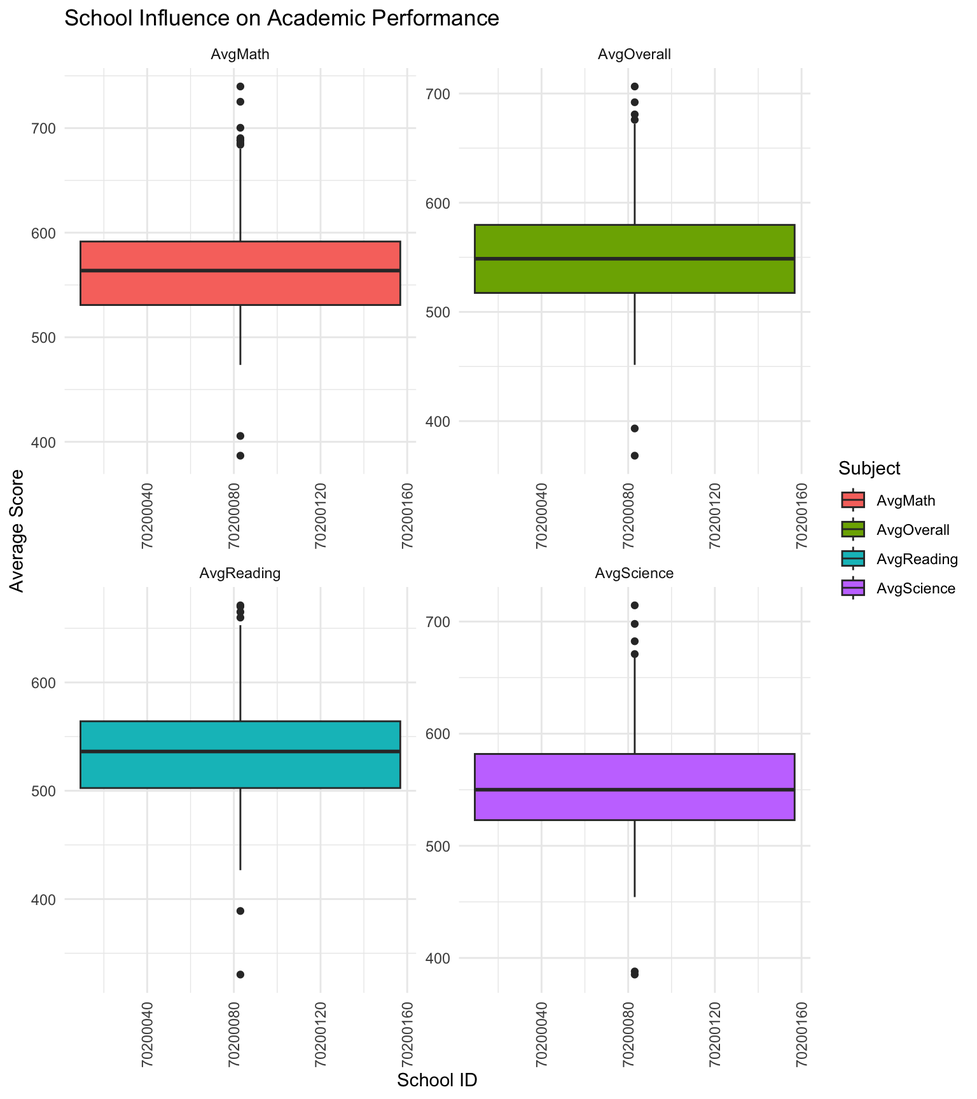
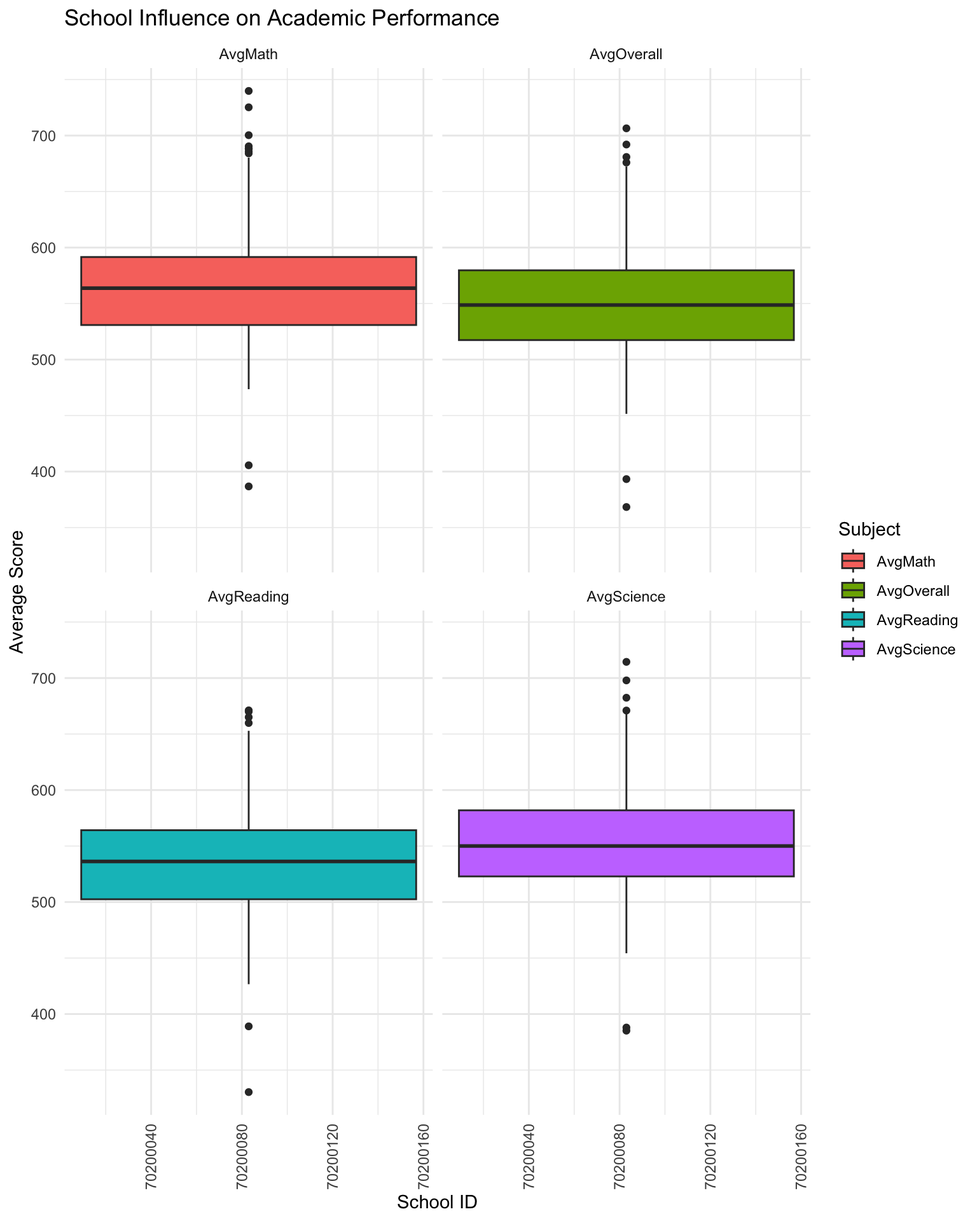
Commit after editing take home exercise 1.

diff --git a/_site/Take-home_Ex/Take-home_Ex01/Take-home_Ex01.html b/_site/Take-home_Ex/Take-home_Ex01/Take-home_Ex01.html
@@ -244,7 +244,7 @@ pre > code.sourceCode > span > a:first-child::before { text-decoration: underlin
 </section>
 <section id="project-objectives" class="level1">
 <h1>2 Project Objectives</h1>
-<p>The aim of this project is to conduct an Exploratory Data Analysis (EDA) using the 2022 PISA data, focusing on students in Singapore. The analysis will explore the distribution of Singaporean students’ performance in mathematics, reading, and science, and examine the relationship between these performances and various factors such as school type, gender, and socioeconomic status. The analysis will be visualized effectively to communicate the findings derived from the data.</p>
+<p>The aim of this project is to conduct an Exploratory Data Analysis (EDA) using the 2022 PISA data, focusing on students in Singapore. The analysis will explore <code>the distribution of Singaporean students' performance in mathematics, reading, and science, and examine the relationship between these performances and various factors such as school, gender, and socioeconomic status</code>. The analysis will be visualized effectively to communicate the findings derived from the data.</p>
 </section>
 <section id="data-preparation" class="level1">
 <h1>3 Data Preparation</h1>
@@ -664,7 +664,8 @@ pre > code.sourceCode > span > a:first-child::before { text-decoration: underlin
 </div>
 </div>
 </div>
-<p>Where is the missing value ??!! We found 47 missing values in the ESCS column.</p>
+<p><code>Where is the missing value ??!!</code></p>
+<p>We found <code>47 missing values</code> in the ESCS column.</p>
 <div class="tabset-margin-container"></div><div class="panel-tabset">
 <ul class="nav nav-tabs" role="tablist"><li class="nav-item" role="presentation"><a class="nav-link active" id="tabset-2-1-tab" data-bs-toggle="tab" data-bs-target="#tabset-2-1" role="tab" aria-controls="tabset-2-1" aria-selected="true"><strong>The code</strong></a></li><li class="nav-item" role="presentation"><a class="nav-link" id="tabset-2-2-tab" data-bs-toggle="tab" data-bs-target="#tabset-2-2" role="tab" aria-controls="tabset-2-2" aria-selected="false"><strong>The result</strong></a></li></ul>
 <div class="tab-content">
@@ -739,11 +740,11 @@ pre > code.sourceCode > span > a:first-child::before { text-decoration: underlin
 </div>
 </div>
 </div>
-<p>The Economic, Social, and Cultural Status Index (ESCS) is a <strong>crucial indicator</strong>, and removing observations with missing ESCS values directly may result in sample bias. I choose to retain the missing values.</p>
+<p>The Economic, Social, and Cultural Status Index (ESCS) is a <strong>crucial indicator</strong>, and removing observations with missing ESCS values directly may result in sample bias. <code>I choose to retain the missing values.</code></p>
 </section>
 <section id="processing-pv-values" class="level3">
 <h3 class="anchored" data-anchor-id="processing-pv-values">3.2.3 Processing PV Values</h3>
-<p>Due to the presence of 10 plausible values (PVs) for performance in mathematics, reading, and science, I will take the average PV for each subject to facilitate subsequent EDA visualization.</p>
+<p>Due to the presence of 10 plausible values (PVs) for performance in mathematics, reading, and science, I will take the <code>average PV</code> for each subject to facilitate subsequent EDA visualization.</p>
 <div class="tabset-margin-container"></div><div class="panel-tabset">
 <ul class="nav nav-tabs" role="tablist"><li class="nav-item" role="presentation"><a class="nav-link active" id="tabset-3-1-tab" data-bs-toggle="tab" data-bs-target="#tabset-3-1" role="tab" aria-controls="tabset-3-1" aria-selected="true"><strong>The result</strong></a></li><li class="nav-item" role="presentation"><a class="nav-link" id="tabset-3-2-tab" data-bs-toggle="tab" data-bs-target="#tabset-3-2" role="tab" aria-controls="tabset-3-2" aria-selected="false"><strong>The code</strong></a></li></ul>
 <div class="tab-content">
@@ -816,20 +817,24 @@ pre > code.sourceCode > span > a:first-child::before { text-decoration: underlin
 <span id="cb16-15"><a href="#cb16-15" aria-hidden="true" tabindex="-1"></a>       <span class="at">x =</span> <span class="st">"Subject"</span>,</span>
 <span id="cb16-16"><a href="#cb16-16" aria-hidden="true" tabindex="-1"></a>       <span class="at">y =</span> <span class="st">"Performance value"</span>) <span class="sc">+</span></span>
 <span id="cb16-17"><a href="#cb16-17" aria-hidden="true" tabindex="-1"></a>  <span class="fu">theme_minimal</span>() <span class="sc">+</span></span>
-<span id="cb16-18"><a href="#cb16-18" aria-hidden="true" tabindex="-1"></a>  <span class="fu">theme</span>(<span class="at">legend.position =</span> <span class="st">"none"</span>)</span>
+<span id="cb16-18"><a href="#cb16-18" aria-hidden="true" tabindex="-1"></a>  <span class="fu">theme</span>(<span class="at">legend.position =</span> <span class="st">"top"</span>)</span>
 <span id="cb16-19"><a href="#cb16-19" aria-hidden="true" tabindex="-1"></a></span>
 <span id="cb16-20"><a href="#cb16-20" aria-hidden="true" tabindex="-1"></a>p2 <span class="ot">&lt;-</span> <span class="fu">ggplot</span>(stu_qqq_SG_01, <span class="fu">aes</span>(<span class="at">x =</span> MeanOverall)) <span class="sc">+</span></span>
-<span id="cb16-21"><a href="#cb16-21" aria-hidden="true" tabindex="-1"></a>  <span class="fu">geom_point</span>(<span class="fu">aes</span>(<span class="at">y =</span> MeanMATH), <span class="at">color =</span> <span class="st">'salmon'</span>,<span class="at">alpha =</span> <span class="fl">0.5</span>) <span class="sc">+</span></span>
-<span id="cb16-22"><a href="#cb16-22" aria-hidden="true" tabindex="-1"></a>  <span class="fu">geom_smooth</span>(<span class="fu">aes</span>(<span class="at">y =</span> MeanMATH), <span class="at">method =</span> <span class="st">'lm'</span>, <span class="at">color =</span> <span class="st">'salmon'</span>) <span class="sc">+</span></span>
-<span id="cb16-23"><a href="#cb16-23" aria-hidden="true" tabindex="-1"></a>  <span class="fu">geom_point</span>(<span class="fu">aes</span>(<span class="at">y =</span> MeanREAD), <span class="at">color =</span> <span class="st">'steelblue1'</span>,<span class="at">alpha =</span> <span class="fl">0.5</span>) <span class="sc">+</span></span>
-<span id="cb16-24"><a href="#cb16-24" aria-hidden="true" tabindex="-1"></a>  <span class="fu">geom_smooth</span>(<span class="fu">aes</span>(<span class="at">y =</span> MeanREAD), <span class="at">method =</span> <span class="st">'lm'</span>, <span class="at">color =</span> <span class="st">'steelblue1'</span>) <span class="sc">+</span></span>
-<span id="cb16-25"><a href="#cb16-25" aria-hidden="true" tabindex="-1"></a>  <span class="fu">geom_point</span>(<span class="fu">aes</span>(<span class="at">y =</span> MeanSCIE), <span class="at">color =</span> <span class="st">'darkseagreen'</span>,<span class="at">alpha =</span> <span class="fl">0.5</span>) <span class="sc">+</span></span>
-<span id="cb16-26"><a href="#cb16-26" aria-hidden="true" tabindex="-1"></a>  <span class="fu">geom_smooth</span>(<span class="fu">aes</span>(<span class="at">y =</span> MeanSCIE), <span class="at">method =</span> <span class="st">'lm'</span>, <span class="at">color =</span> <span class="st">'darkseagreen'</span>) <span class="sc">+</span></span>
-<span id="cb16-27"><a href="#cb16-27" aria-hidden="true" tabindex="-1"></a>  <span class="fu">theme_minimal</span>() <span class="sc">+</span></span>
-<span id="cb16-28"><a href="#cb16-28" aria-hidden="true" tabindex="-1"></a>  <span class="fu">labs</span>(<span class="at">title =</span> <span class="st">"Relationship Between MeanOverall and three subjects"</span>,</span>
-<span id="cb16-29"><a href="#cb16-29" aria-hidden="true" tabindex="-1"></a>       <span class="at">x =</span> <span class="st">"MeanOverall"</span>, <span class="at">y =</span> <span class="st">"Score"</span>)</span>
-<span id="cb16-30"><a href="#cb16-30" aria-hidden="true" tabindex="-1"></a></span>
-<span id="cb16-31"><a href="#cb16-31" aria-hidden="true" tabindex="-1"></a>p1<span class="sc">+</span>p2</span></code><button title="Copy to Clipboard" class="code-copy-button"><i class="bi"></i></button></pre></div>
+<span id="cb16-21"><a href="#cb16-21" aria-hidden="true" tabindex="-1"></a>  <span class="fu">geom_point</span>(<span class="fu">aes</span>(<span class="at">y =</span> MeanMATH, <span class="at">color =</span> <span class="st">"Math"</span>), <span class="at">alpha =</span> <span class="fl">0.5</span>) <span class="sc">+</span></span>
+<span id="cb16-22"><a href="#cb16-22" aria-hidden="true" tabindex="-1"></a>  <span class="fu">geom_smooth</span>(<span class="fu">aes</span>(<span class="at">y =</span> MeanMATH, <span class="at">color =</span> <span class="st">"Math"</span>), <span class="at">method =</span> <span class="st">'lm'</span>) <span class="sc">+</span></span>
+<span id="cb16-23"><a href="#cb16-23" aria-hidden="true" tabindex="-1"></a>  <span class="fu">geom_point</span>(<span class="fu">aes</span>(<span class="at">y =</span> MeanREAD, <span class="at">color =</span> <span class="st">"Reading"</span>), <span class="at">alpha =</span> <span class="fl">0.5</span>) <span class="sc">+</span></span>
+<span id="cb16-24"><a href="#cb16-24" aria-hidden="true" tabindex="-1"></a>  <span class="fu">geom_smooth</span>(<span class="fu">aes</span>(<span class="at">y =</span> MeanREAD, <span class="at">color =</span> <span class="st">"Reading"</span>), <span class="at">method =</span> <span class="st">'lm'</span>) <span class="sc">+</span></span>
+<span id="cb16-25"><a href="#cb16-25" aria-hidden="true" tabindex="-1"></a>  <span class="fu">geom_point</span>(<span class="fu">aes</span>(<span class="at">y =</span> MeanSCIE, <span class="at">color =</span> <span class="st">"Science"</span>), <span class="at">alpha =</span> <span class="fl">0.5</span>) <span class="sc">+</span></span>
+<span id="cb16-26"><a href="#cb16-26" aria-hidden="true" tabindex="-1"></a>  <span class="fu">geom_smooth</span>(<span class="fu">aes</span>(<span class="at">y =</span> MeanSCIE, <span class="at">color =</span> <span class="st">"Science"</span>), <span class="at">method =</span> <span class="st">'lm'</span>) <span class="sc">+</span></span>
+<span id="cb16-27"><a href="#cb16-27" aria-hidden="true" tabindex="-1"></a>  <span class="fu">scale_color_manual</span>(<span class="at">values =</span> <span class="fu">c</span>(<span class="st">"Math"</span> <span class="ot">=</span> <span class="st">"salmon"</span>, <span class="st">"Reading"</span> <span class="ot">=</span> <span class="st">"steelblue1"</span>, <span class="st">"Science"</span> <span class="ot">=</span> <span class="st">"darkseagreen"</span>),</span>
+<span id="cb16-28"><a href="#cb16-28" aria-hidden="true" tabindex="-1"></a>                     <span class="at">name =</span> <span class="st">"Subject"</span>, </span>
+<span id="cb16-29"><a href="#cb16-29" aria-hidden="true" tabindex="-1"></a>                     <span class="at">labels =</span> <span class="fu">c</span>(<span class="st">"Math"</span> <span class="ot">=</span> <span class="st">"Math"</span>, <span class="st">"Reading"</span> <span class="ot">=</span> <span class="st">"Reading"</span>, <span class="st">"Science"</span> <span class="ot">=</span> <span class="st">"Science"</span>)) <span class="sc">+</span></span>
+<span id="cb16-30"><a href="#cb16-30" aria-hidden="true" tabindex="-1"></a>  <span class="fu">theme_minimal</span>() <span class="sc">+</span></span>
+<span id="cb16-31"><a href="#cb16-31" aria-hidden="true" tabindex="-1"></a>  <span class="fu">theme</span>(<span class="at">legend.position =</span> <span class="st">"top"</span>) <span class="sc">+</span></span>
+<span id="cb16-32"><a href="#cb16-32" aria-hidden="true" tabindex="-1"></a>  <span class="fu">labs</span>(<span class="at">title =</span> <span class="st">"Relationship Between MeanOverall and Three Subjects"</span>,</span>
+<span id="cb16-33"><a href="#cb16-33" aria-hidden="true" tabindex="-1"></a>       <span class="at">x =</span> <span class="st">"MeanOverall"</span>, <span class="at">y =</span> <span class="st">"Score"</span>)</span>
+<span id="cb16-34"><a href="#cb16-34" aria-hidden="true" tabindex="-1"></a></span>
+<span id="cb16-35"><a href="#cb16-35" aria-hidden="true" tabindex="-1"></a>p1<span class="sc">+</span>p2</span></code><button title="Copy to Clipboard" class="code-copy-button"><i class="bi"></i></button></pre></div>
 </details>
 <div class="cell-output-display">
 <p><img src="Take-home_Ex01_files/figure-html/unnamed-chunk-13-1.png" class="img-fluid" width="960"></p>
@@ -914,25 +919,27 @@ pre > code.sourceCode > span > a:first-child::before { text-decoration: underlin
 <details>
 <summary>Code</summary>
 <div class="sourceCode cell-code" id="cb20"><pre class="sourceCode r code-with-copy"><code class="sourceCode r"><span id="cb20-1"><a href="#cb20-1" aria-hidden="true" tabindex="-1"></a>long_data <span class="ot">&lt;-</span> stu_qqq_SG_01 <span class="sc">%&gt;%</span></span>
-<span id="cb20-2"><a href="#cb20-2" aria-hidden="true" tabindex="-1"></a>  <span class="fu">gather</span>(<span class="at">key =</span> <span class="st">"Subject"</span>, <span class="at">value =</span> <span class="st">"Score"</span>, MeanMATH, MeanREAD, MeanSCIE,MeanOverall) <span class="sc">%&gt;%</span></span>
+<span id="cb20-2"><a href="#cb20-2" aria-hidden="true" tabindex="-1"></a>  <span class="fu">gather</span>(<span class="at">key =</span> <span class="st">"Subject"</span>, <span class="at">value =</span> <span class="st">"Score"</span>, MeanMATH, MeanREAD, MeanSCIE, MeanOverall) <span class="sc">%&gt;%</span></span>
 <span id="cb20-3"><a href="#cb20-3" aria-hidden="true" tabindex="-1"></a>  <span class="fu">group_by</span>(CNTSCHID, Subject) <span class="sc">%&gt;%</span></span>
 <span id="cb20-4"><a href="#cb20-4" aria-hidden="true" tabindex="-1"></a>  <span class="fu">summarise</span>(<span class="at">AverageScore =</span> <span class="fu">mean</span>(Score, <span class="at">na.rm =</span> <span class="cn">TRUE</span>)) <span class="sc">%&gt;%</span></span>
-<span id="cb20-5"><a href="#cb20-5" aria-hidden="true" tabindex="-1"></a>  <span class="fu">ungroup</span>()</span>
-<span id="cb20-6"><a href="#cb20-6" aria-hidden="true" tabindex="-1"></a></span>
-<span id="cb20-7"><a href="#cb20-7" aria-hidden="true" tabindex="-1"></a><span class="co"># Create a dot plot to compare the average performance of different schools</span></span>
-<span id="cb20-8"><a href="#cb20-8" aria-hidden="true" tabindex="-1"></a><span class="fu">ggplot</span>(long_data, <span class="fu">aes</span>(<span class="at">x =</span> CNTSCHID, <span class="at">y =</span> AverageScore, <span class="at">color =</span> Subject)) <span class="sc">+</span></span>
-<span id="cb20-9"><a href="#cb20-9" aria-hidden="true" tabindex="-1"></a>  <span class="fu">geom_point</span>(<span class="at">position =</span> <span class="fu">position_dodge</span>(<span class="at">width =</span> <span class="fl">0.5</span>)) <span class="sc">+</span></span>
-<span id="cb20-10"><a href="#cb20-10" aria-hidden="true" tabindex="-1"></a>  <span class="fu">theme_minimal</span>() <span class="sc">+</span></span>
-<span id="cb20-11"><a href="#cb20-11" aria-hidden="true" tabindex="-1"></a>  <span class="fu">labs</span>(<span class="at">title =</span> <span class="st">"Comparison of School Performance in Subjects"</span>,</span>
-<span id="cb20-12"><a href="#cb20-12" aria-hidden="true" tabindex="-1"></a>       <span class="at">x =</span> <span class="st">"School ID"</span>, <span class="at">y =</span> <span class="st">"Average Score"</span>) <span class="sc">+</span></span>
-<span id="cb20-13"><a href="#cb20-13" aria-hidden="true" tabindex="-1"></a>  <span class="fu">scale_color_brewer</span>(<span class="at">palette =</span> <span class="st">"Set1"</span>) <span class="sc">+</span></span>
-<span id="cb20-14"><a href="#cb20-14" aria-hidden="true" tabindex="-1"></a>  <span class="fu">theme</span>(<span class="at">axis.text.x =</span> <span class="fu">element_text</span>(<span class="at">angle =</span> <span class="dv">90</span>, <span class="at">hjust =</span> <span class="dv">1</span>)) </span></code><button title="Copy to Clipboard" class="code-copy-button"><i class="bi"></i></button></pre></div>
+<span id="cb20-5"><a href="#cb20-5" aria-hidden="true" tabindex="-1"></a>  <span class="fu">ungroup</span>() <span class="sc">%&gt;%</span></span>
+<span id="cb20-6"><a href="#cb20-6" aria-hidden="true" tabindex="-1"></a>  <span class="fu">mutate</span>(<span class="at">Label =</span> <span class="fu">ifelse</span>(AverageScore <span class="sc">&gt;</span> <span class="dv">650</span> <span class="sc">|</span> AverageScore <span class="sc">&lt;</span> <span class="dv">450</span>, <span class="fu">as.character</span>(CNTSCHID), <span class="st">""</span>))</span>
+<span id="cb20-7"><a href="#cb20-7" aria-hidden="true" tabindex="-1"></a></span>
+<span id="cb20-8"><a href="#cb20-8" aria-hidden="true" tabindex="-1"></a><span class="co"># Create a dot plot to compare the average performance of different schools</span></span>
+<span id="cb20-9"><a href="#cb20-9" aria-hidden="true" tabindex="-1"></a><span class="fu">ggplot</span>(long_data, <span class="fu">aes</span>(<span class="at">x =</span> CNTSCHID, <span class="at">y =</span> AverageScore, <span class="at">color =</span> Subject)) <span class="sc">+</span></span>
+<span id="cb20-10"><a href="#cb20-10" aria-hidden="true" tabindex="-1"></a>  <span class="fu">geom_point</span>(<span class="at">position =</span> <span class="fu">position_dodge</span>(<span class="at">width =</span> <span class="fl">0.5</span>)) <span class="sc">+</span></span>
+<span id="cb20-11"><a href="#cb20-11" aria-hidden="true" tabindex="-1"></a>  <span class="fu">geom_text</span>(<span class="fu">aes</span>(<span class="at">label =</span> Label), <span class="at">check_overlap =</span> <span class="cn">TRUE</span>, <span class="at">vjust =</span> <span class="sc">-</span><span class="dv">1</span>, <span class="at">position =</span> <span class="fu">position_dodge</span>(<span class="at">width =</span> <span class="fl">0.5</span>)) <span class="sc">+</span></span>
+<span id="cb20-12"><a href="#cb20-12" aria-hidden="true" tabindex="-1"></a>  <span class="fu">theme_minimal</span>() <span class="sc">+</span></span>
+<span id="cb20-13"><a href="#cb20-13" aria-hidden="true" tabindex="-1"></a>  <span class="fu">labs</span>(<span class="at">title =</span> <span class="st">"Comparison of School Performance in Subjects"</span>,</span>
+<span id="cb20-14"><a href="#cb20-14" aria-hidden="true" tabindex="-1"></a>       <span class="at">x =</span> <span class="st">"School ID"</span>, <span class="at">y =</span> <span class="st">"Average Score"</span>) <span class="sc">+</span></span>
+<span id="cb20-15"><a href="#cb20-15" aria-hidden="true" tabindex="-1"></a>  <span class="fu">scale_color_brewer</span>(<span class="at">palette =</span> <span class="st">"Set1"</span>) <span class="sc">+</span></span>
+<span id="cb20-16"><a href="#cb20-16" aria-hidden="true" tabindex="-1"></a>  <span class="fu">theme</span>(<span class="at">axis.text.x =</span> <span class="fu">element_text</span>(<span class="at">angle =</span> <span class="dv">90</span>, <span class="at">hjust =</span> <span class="dv">1</span>)) </span></code><button title="Copy to Clipboard" class="code-copy-button"><i class="bi"></i></button></pre></div>
 </details>
 <div class="cell-output-display">
 <p><img src="Take-home_Ex01_files/figure-html/unnamed-chunk-16-1.png" class="img-fluid" width="672"></p>
 </div>
 </div>
-<p>After categorizing by school, the scores in different subjects and the overall average scores of schools are dispersed. There is no clear case where any school performs well in every subject or performs poorly in every subject. The circles of four different colors indicate that there is no concentration at high or low scores.</p>
+<p>From the graph, it is evident that the performance levels of most schools in Singapore are concentrated between <code>450 and 650</code>, with only a few falling outside this range. I have marked the school IDs that fall outside this range. It can be seen that the school with an ID ending in <code>01</code> shows excellent performance in all three subjects, while schools with IDs ending in <code>115</code> and <code>149</code> exhibit relatively poor performance in all three subjects.</p>
 <div class="cell">
 <details>
 <summary>Code</summary>
@@ -949,7 +956,7 @@ pre > code.sourceCode > span > a:first-child::before { text-decoration: underlin
 <span id="cb21-11"><a href="#cb21-11" aria-hidden="true" tabindex="-1"></a><span class="co"># Use box plots to visualize the average scores of different schools</span></span>
 <span id="cb21-12"><a href="#cb21-12" aria-hidden="true" tabindex="-1"></a><span class="fu">ggplot</span>(school_performance, <span class="fu">aes</span>(<span class="at">x =</span> CNTSCHID, <span class="at">y =</span> AverageScore, <span class="at">fill =</span> Subject)) <span class="sc">+</span></span>
 <span id="cb21-13"><a href="#cb21-13" aria-hidden="true" tabindex="-1"></a>  <span class="fu">geom_boxplot</span>() <span class="sc">+</span></span>
-<span id="cb21-14"><a href="#cb21-14" aria-hidden="true" tabindex="-1"></a>  <span class="fu">facet_wrap</span>(<span class="sc">~</span> Subject, <span class="at">scales =</span> <span class="st">"free"</span>) <span class="sc">+</span></span>
+<span id="cb21-14"><a href="#cb21-14" aria-hidden="true" tabindex="-1"></a>  <span class="fu">facet_wrap</span>(<span class="sc">~</span> Subject, <span class="at">scales =</span> <span class="st">"fixed"</span>) <span class="sc">+</span></span>
 <span id="cb21-15"><a href="#cb21-15" aria-hidden="true" tabindex="-1"></a>  <span class="fu">theme_minimal</span>() <span class="sc">+</span></span>
 <span id="cb21-16"><a href="#cb21-16" aria-hidden="true" tabindex="-1"></a>  <span class="fu">labs</span>(<span class="at">x =</span> <span class="st">"School ID"</span>, <span class="at">y =</span> <span class="st">"Average Score"</span>, <span class="at">title =</span> <span class="st">"School Influence on Academic Performance"</span>) <span class="sc">+</span></span>
 <span id="cb21-17"><a href="#cb21-17" aria-hidden="true" tabindex="-1"></a>  <span class="fu">theme</span>(<span class="at">axis.text.x =</span> <span class="fu">element_text</span>(<span class="at">angle =</span> <span class="dv">90</span>, <span class="at">vjust =</span> <span class="fl">0.5</span>, <span class="at">hjust=</span><span class="dv">1</span>)) </span></code><button title="Copy to Clipboard" class="code-copy-button"><i class="bi"></i></button></pre></div>
@@ -958,7 +965,7 @@ pre > code.sourceCode > span > a:first-child::before { text-decoration: underlin
 <p><img src="Take-home_Ex01_files/figure-html/unnamed-chunk-17-1.png" class="img-fluid" width="768"></p>
 </div>
 </div>
-<p>There are some outliers, but not many, and the performance of students from most schools is relatively stable, ranging between 500-600. Regarding these outliers, I am interested in knowing if the outliers in each subject all come from the same schools.</p>
+<p>From the box plots, it is observable that the average academic performance of most schools in Singapore lies between <code>500 and 600</code>. The majority of schools perform better in Mathematics and Science, with slightly lower performance in Reading, yet still within a reasonable range. The mean values also fall within a sensible range, with very few outliers.</p>
 <div class="cell">
 <details>
 <summary>Code</summary>
@@ -997,7 +1004,11 @@ pre > code.sourceCode > span > a:first-child::before { text-decoration: underlin
 <p>The results show that there is no single school with outliers in the same subjects, proving that the outliers originate from different schools.</p>
 <div class="insight">
 <p>Insight:</p>
-<p>The performance of students across subjects in Singapore schools is relatively even, with no apparent “extreme schools.” Outliers come from various schools, each with its strengths and weaknesses, falling within a normal and reasonable range of consideration.</p>
+<ul>
+<li><p>The overall level of schools in Singapore tends to be balanced, with no significant differences and no “extreme schools” appearing in the high or low outliers for each subject.</p></li>
+<li><p>However, there is still some differentiation in subject performance levels among schools, as some schools, despite not appearing in the outliers, exhibit overall higher or lower levels in certain subjects.</p></li>
+<li><p>Most schools fall within a reasonable range of performance, with both strengths and weaknesses coexisting.</p></li>
+</ul>
 </div>
 </section>
 <section id="the-relationship-between-socioeconomic-status-and-academic-performance" class="level2">
@@ -1011,13 +1022,16 @@ pre > code.sourceCode > span > a:first-child::before { text-decoration: underlin
 <details>
 <summary>Code</summary>
 <div class="sourceCode cell-code" id="cb24"><pre class="sourceCode r code-with-copy"><code class="sourceCode r"><span id="cb24-1"><a href="#cb24-1" aria-hidden="true" tabindex="-1"></a><span class="fu">ggplot</span>(stu_qqq_SG_01, <span class="fu">aes</span>(<span class="at">x =</span> ESCS)) <span class="sc">+</span></span>
-<span id="cb24-2"><a href="#cb24-2" aria-hidden="true" tabindex="-1"></a>  <span class="fu">geom_point</span>(<span class="fu">aes</span>(<span class="at">y =</span> MeanOverall), <span class="at">color =</span> <span class="st">'lightseagreen'</span>,<span class="at">alpha =</span> <span class="fl">0.5</span>) <span class="sc">+</span></span>
-<span id="cb24-3"><a href="#cb24-3" aria-hidden="true" tabindex="-1"></a>  <span class="fu">geom_smooth</span>(<span class="fu">aes</span>(<span class="at">y =</span> MeanOverall), <span class="at">method =</span> <span class="st">'lm'</span>, <span class="at">color =</span> <span class="st">'lightseagreen'</span>) <span class="sc">+</span></span>
-<span id="cb24-4"><a href="#cb24-4" aria-hidden="true" tabindex="-1"></a>  <span class="fu">geom_point</span>(<span class="fu">aes</span>(<span class="at">y =</span> MeanSCIE), <span class="at">color =</span> <span class="st">'palevioletred1'</span>,<span class="at">alpha =</span> <span class="fl">0.5</span>) <span class="sc">+</span></span>
-<span id="cb24-5"><a href="#cb24-5" aria-hidden="true" tabindex="-1"></a>  <span class="fu">geom_smooth</span>(<span class="fu">aes</span>(<span class="at">y =</span> MeanSCIE), <span class="at">method =</span> <span class="st">'lm'</span>, <span class="at">color =</span> <span class="st">'palevioletred1'</span>) <span class="sc">+</span></span>
-<span id="cb24-6"><a href="#cb24-6" aria-hidden="true" tabindex="-1"></a>  <span class="fu">theme_minimal</span>() <span class="sc">+</span></span>
-<span id="cb24-7"><a href="#cb24-7" aria-hidden="true" tabindex="-1"></a>  <span class="fu">labs</span>(<span class="at">title =</span> <span class="st">"Relationship Between ESCS and Academic Performance"</span>,</span>
-<span id="cb24-8"><a href="#cb24-8" aria-hidden="true" tabindex="-1"></a>       <span class="at">x =</span> <span class="st">"ESCS Index"</span>, <span class="at">y =</span> <span class="st">"Score"</span>)</span></code><button title="Copy to Clipboard" class="code-copy-button"><i class="bi"></i></button></pre></div>
+<span id="cb24-2"><a href="#cb24-2" aria-hidden="true" tabindex="-1"></a>  <span class="fu">geom_point</span>(<span class="fu">aes</span>(<span class="at">y =</span> MeanOverall, <span class="at">color =</span> <span class="st">"Overall"</span>), <span class="at">alpha =</span> <span class="fl">0.5</span>) <span class="sc">+</span></span>
+<span id="cb24-3"><a href="#cb24-3" aria-hidden="true" tabindex="-1"></a>  <span class="fu">geom_smooth</span>(<span class="fu">aes</span>(<span class="at">y =</span> MeanOverall, <span class="at">color =</span> <span class="st">"Overall"</span>), <span class="at">method =</span> <span class="st">'lm'</span>) <span class="sc">+</span></span>
+<span id="cb24-4"><a href="#cb24-4" aria-hidden="true" tabindex="-1"></a>  <span class="fu">geom_point</span>(<span class="fu">aes</span>(<span class="at">y =</span> MeanSCIE, <span class="at">color =</span> <span class="st">"Science"</span>), <span class="at">alpha =</span> <span class="fl">0.5</span>) <span class="sc">+</span></span>
+<span id="cb24-5"><a href="#cb24-5" aria-hidden="true" tabindex="-1"></a>  <span class="fu">geom_smooth</span>(<span class="fu">aes</span>(<span class="at">y =</span> MeanSCIE, <span class="at">color =</span> <span class="st">"Science"</span>), <span class="at">method =</span> <span class="st">'lm'</span>) <span class="sc">+</span></span>
+<span id="cb24-6"><a href="#cb24-6" aria-hidden="true" tabindex="-1"></a>  <span class="fu">scale_color_manual</span>(<span class="at">values =</span> <span class="fu">c</span>(<span class="st">"Overall"</span> <span class="ot">=</span> <span class="st">"lightseagreen"</span>, <span class="st">"Science"</span> <span class="ot">=</span> <span class="st">"palevioletred1"</span>),</span>
+<span id="cb24-7"><a href="#cb24-7" aria-hidden="true" tabindex="-1"></a>                     <span class="at">name =</span> <span class="st">"Subject"</span>, </span>
+<span id="cb24-8"><a href="#cb24-8" aria-hidden="true" tabindex="-1"></a>                     <span class="at">labels =</span> <span class="fu">c</span>(<span class="st">"Overall"</span> <span class="ot">=</span> <span class="st">"Mean Overall"</span>, <span class="st">"Science"</span> <span class="ot">=</span> <span class="st">"Mean Science"</span>)) <span class="sc">+</span></span>
+<span id="cb24-9"><a href="#cb24-9" aria-hidden="true" tabindex="-1"></a>  <span class="fu">theme_minimal</span>() <span class="sc">+</span></span>
+<span id="cb24-10"><a href="#cb24-10" aria-hidden="true" tabindex="-1"></a>  <span class="fu">labs</span>(<span class="at">title =</span> <span class="st">"Relationship Between ESCS and Academic Performance"</span>,</span>
+<span id="cb24-11"><a href="#cb24-11" aria-hidden="true" tabindex="-1"></a>       <span class="at">x =</span> <span class="st">"ESCS Index"</span>, <span class="at">y =</span> <span class="st">"Score"</span>)</span></code><button title="Copy to Clipboard" class="code-copy-button"><i class="bi"></i></button></pre></div>
 </details>
 <div class="cell-output-display">
 <p><img src="Take-home_Ex01_files/figure-html/unnamed-chunk-19-1.png" class="img-fluid" width="672"></p>
@@ -1060,7 +1074,7 @@ Coefficients:
      547.01        50.03  </code></pre>
 </div>
 </div>
-<p>There is a significant positive correlation between ESCS and students’ overall average scores and science scores, indicating that a higher economic, social, and cultural status is associated with better academic performance. Students who perform poorly due to unfavorable socioeconomic conditions may require some socioeconomic assistance.</p>
+<p>There is a significant <code>positive correlation</code> between ESCS and students’ overall average scores and science scores, indicating that a higher economic, social, and cultural status is associated with better academic performance. Students who perform poorly due to unfavorable socioeconomic conditions may require some socioeconomic assistance.</p>
 </div>
 </div>
 </div>
